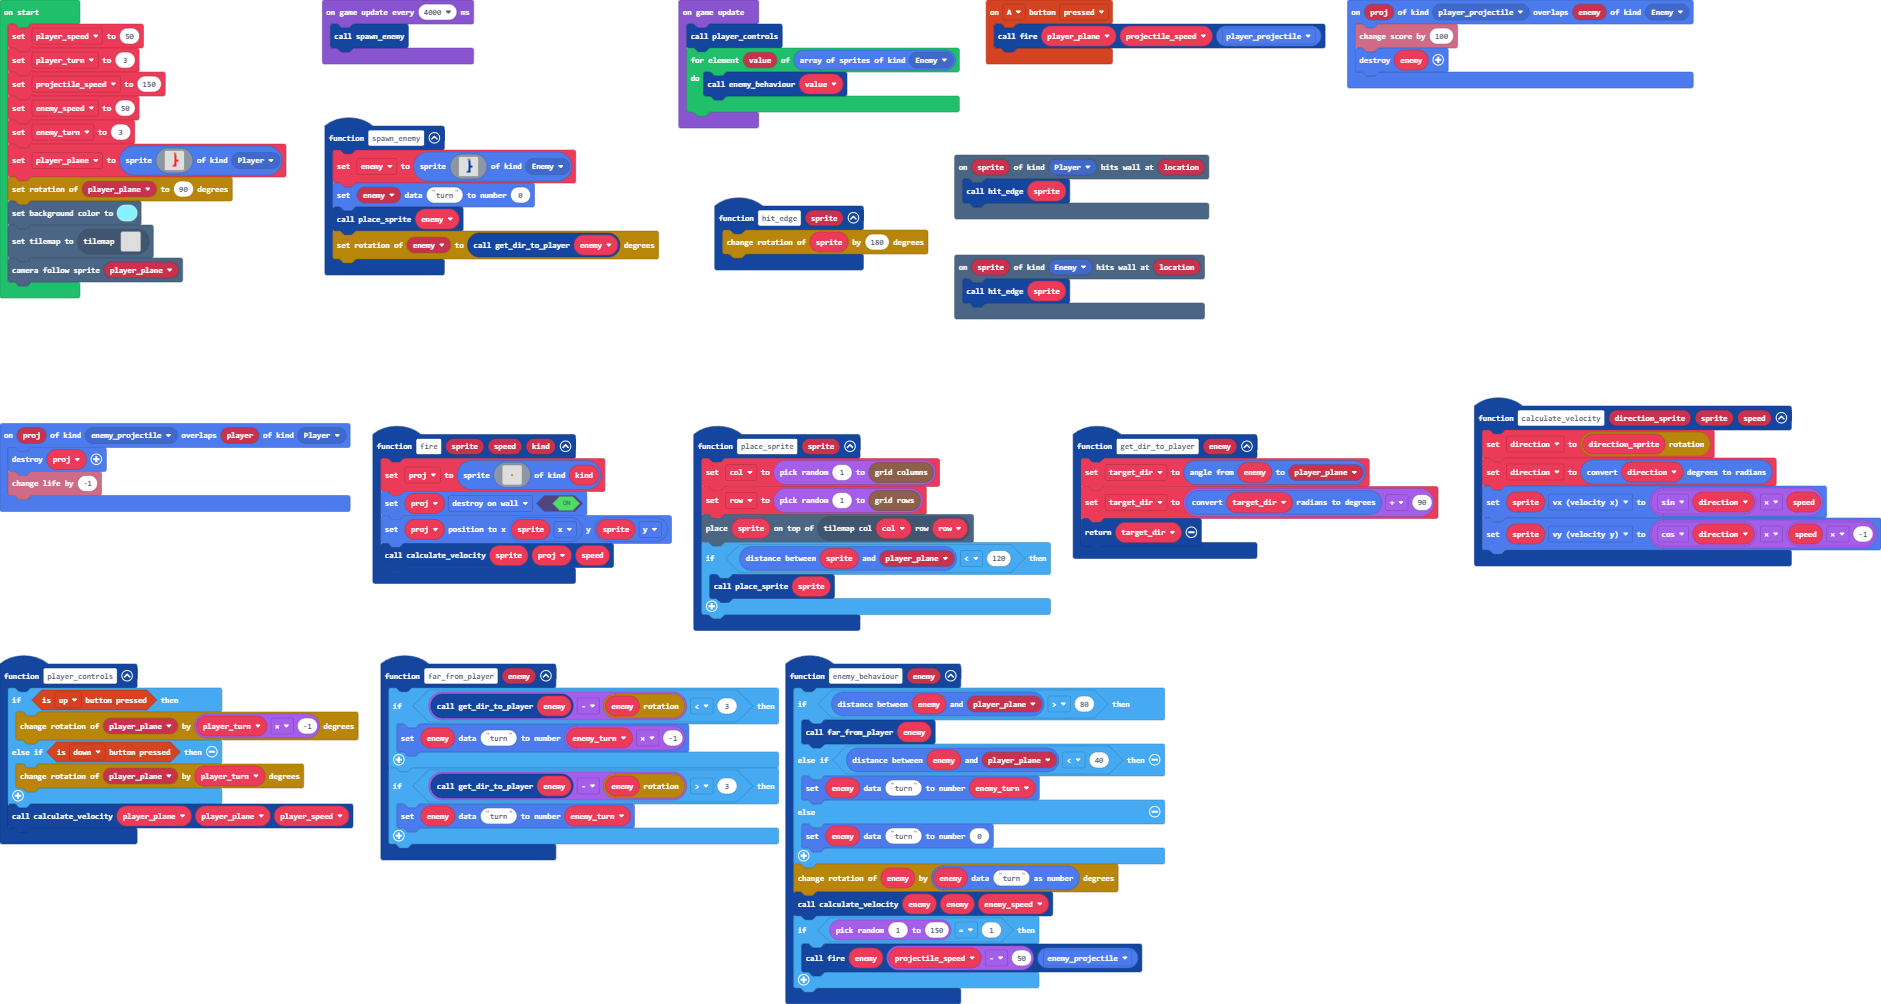
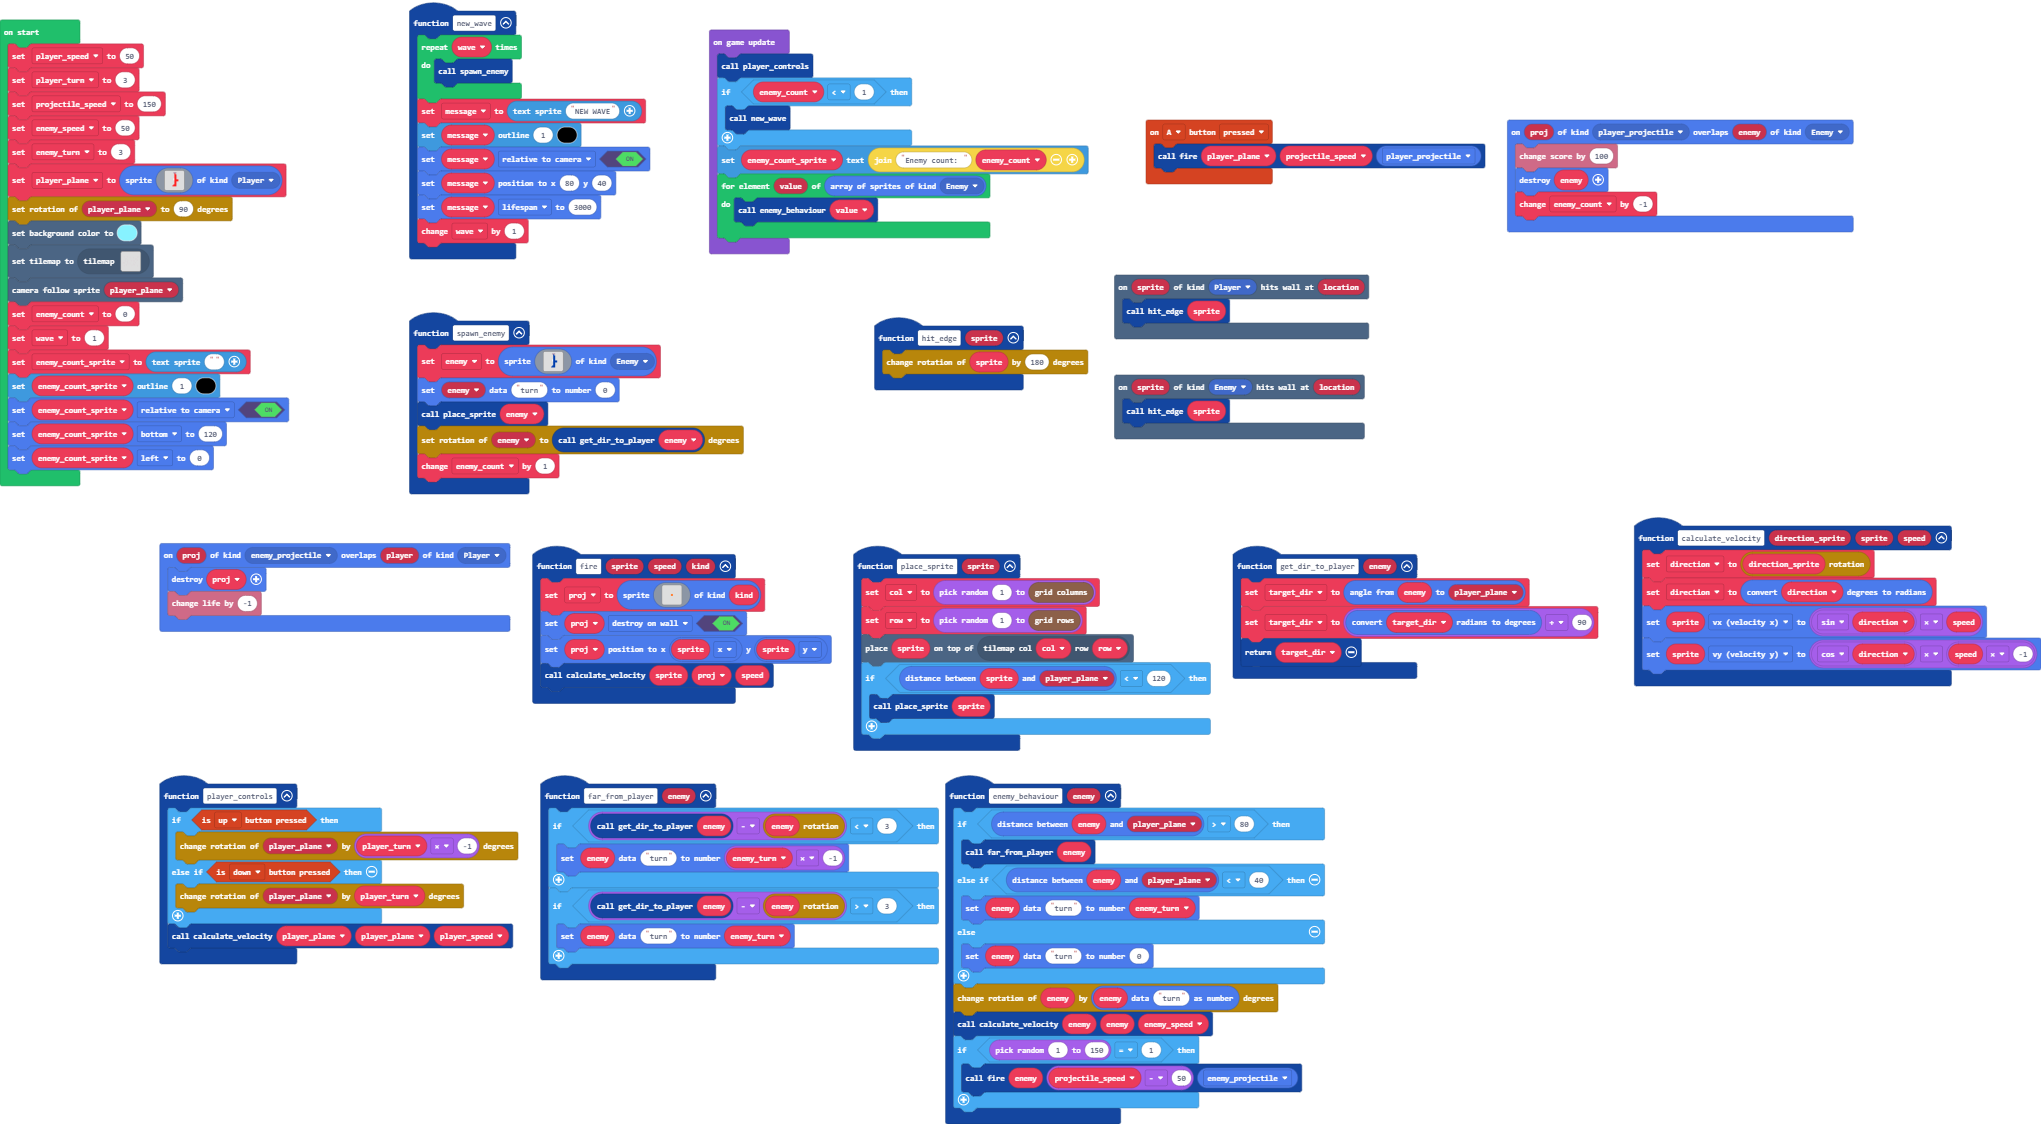
w1

diff --git a/main.ts b/main.ts
@@ -5,6 +5,7 @@ namespace SpriteKind {
 sprites.onOverlap(SpriteKind.player_projectile, SpriteKind.Enemy, function (proj, enemy) {
     info.changeScoreBy(100)
     enemy.destroy()
+    enemy_count += -1
 })
 function hit_edge (sprite: Sprite) {
     transformSprites.changeRotation(sprite, 180)
@@ -56,6 +57,17 @@ function player_controls () {
     }
     calculate_velocity(player_plane, player_plane, player_speed)
 }
+function new_wave () {
+    for (let index = 0; index < wave; index++) {
+        spawn_enemy()
+    }
+    message = textsprite.create("NEW WAVE")
+    message.setOutline(1, 15)
+    message.setFlag(SpriteFlag.RelativeToCamera, true)
+    message.setPosition(80, 40)
+    message.lifespan = 3000
+    wave += 1
+}
 function get_dir_to_player (enemy: Sprite) {
     target_dir = spriteutils.angleFrom(enemy, player_plane)
     target_dir = spriteutils.radiansToDegrees(target_dir) + 90
@@ -74,6 +86,7 @@ function spawn_enemy () {
     sprites.setDataNumber(enemy, "turn", 0)
     place_sprite(enemy)
     transformSprites.rotateSprite(enemy, get_dir_to_player(enemy))
+    enemy_count += 1
 }
 function place_sprite (sprite: Sprite) {
     col = randint(1, grid.numColumns())
@@ -87,8 +100,10 @@ let row = 0
 let col = 0
 let enemy: Sprite = null
 let target_dir = 0
+let message: TextSprite = null
 let proj: Sprite = null
 let direction = 0
+let wave = 0
 let player_plane: Sprite = null
 let enemy_turn = 0
 let enemy_speed = 0
@@ -105,12 +120,20 @@ transformSprites.rotateSprite(player_plane, 90)
 scene.setBackgroundColor(9)
 tiles.setCurrentTilemap(tilemap`level`)
 scene.cameraFollowSprite(player_plane)
+let enemy_count = 0
+wave = 1
+let enemy_count_sprite = textsprite.create("")
+enemy_count_sprite.setOutline(1, 15)
+enemy_count_sprite.setFlag(SpriteFlag.RelativeToCamera, true)
+enemy_count_sprite.bottom = 120
+enemy_count_sprite.left = 0
 game.onUpdate(function () {
     player_controls()
+    if (enemy_count < 1) {
+        new_wave()
+    }
+    enemy_count_sprite.setText("Enemy count: " + enemy_count)
     for (let value of sprites.allOfKind(SpriteKind.Enemy)) {
         enemy_behaviour(value)
     }
-})
-game.onUpdateInterval(4000, function () {
-    spawn_enemy()
 })
